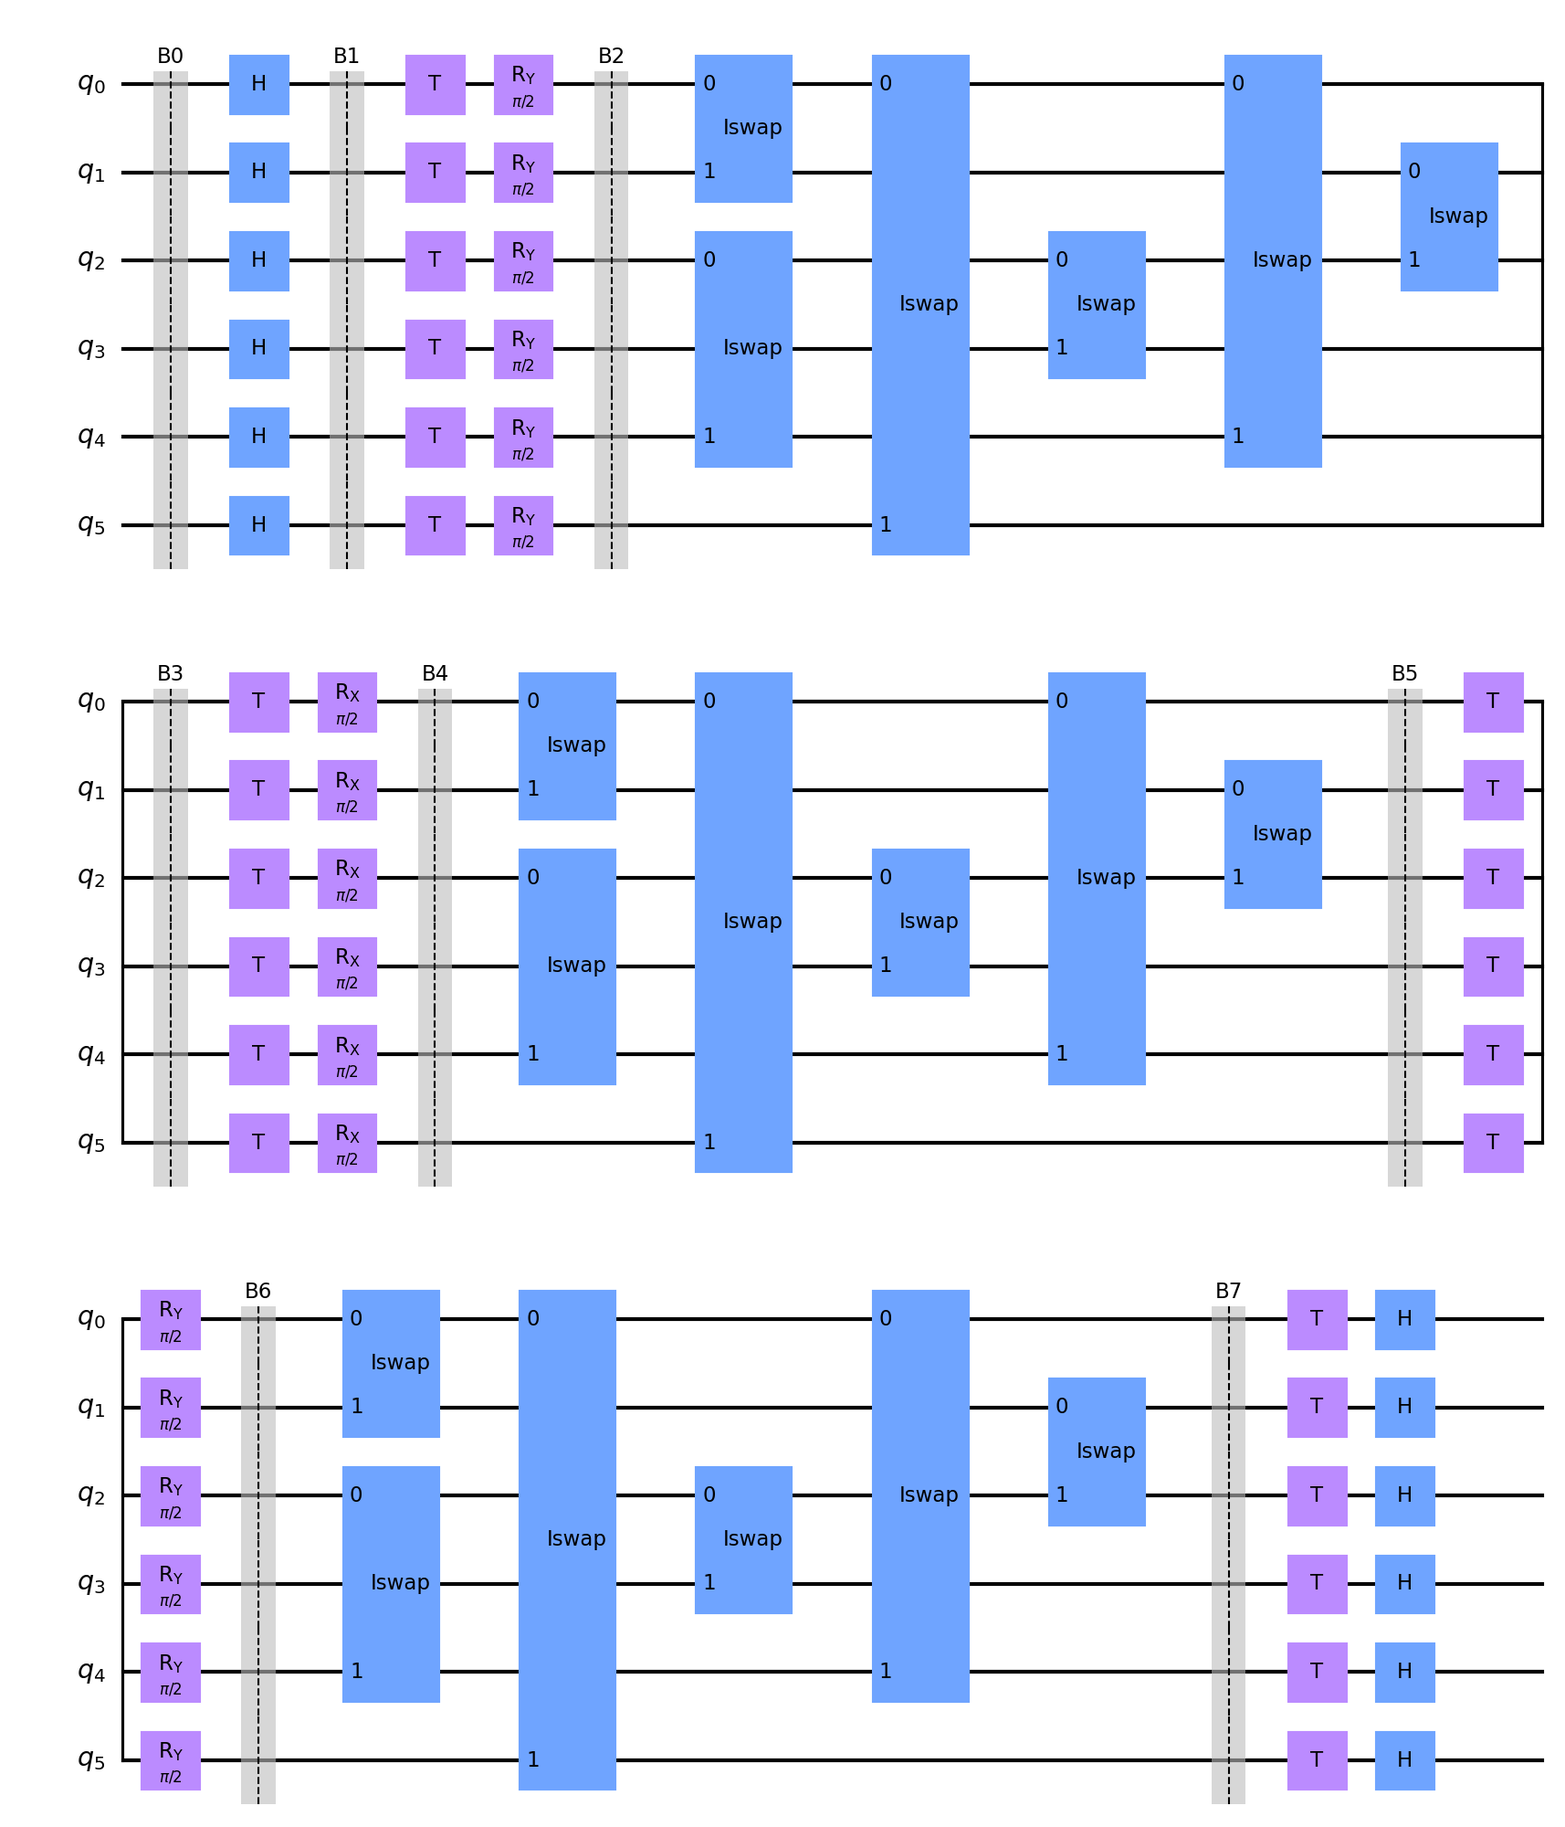
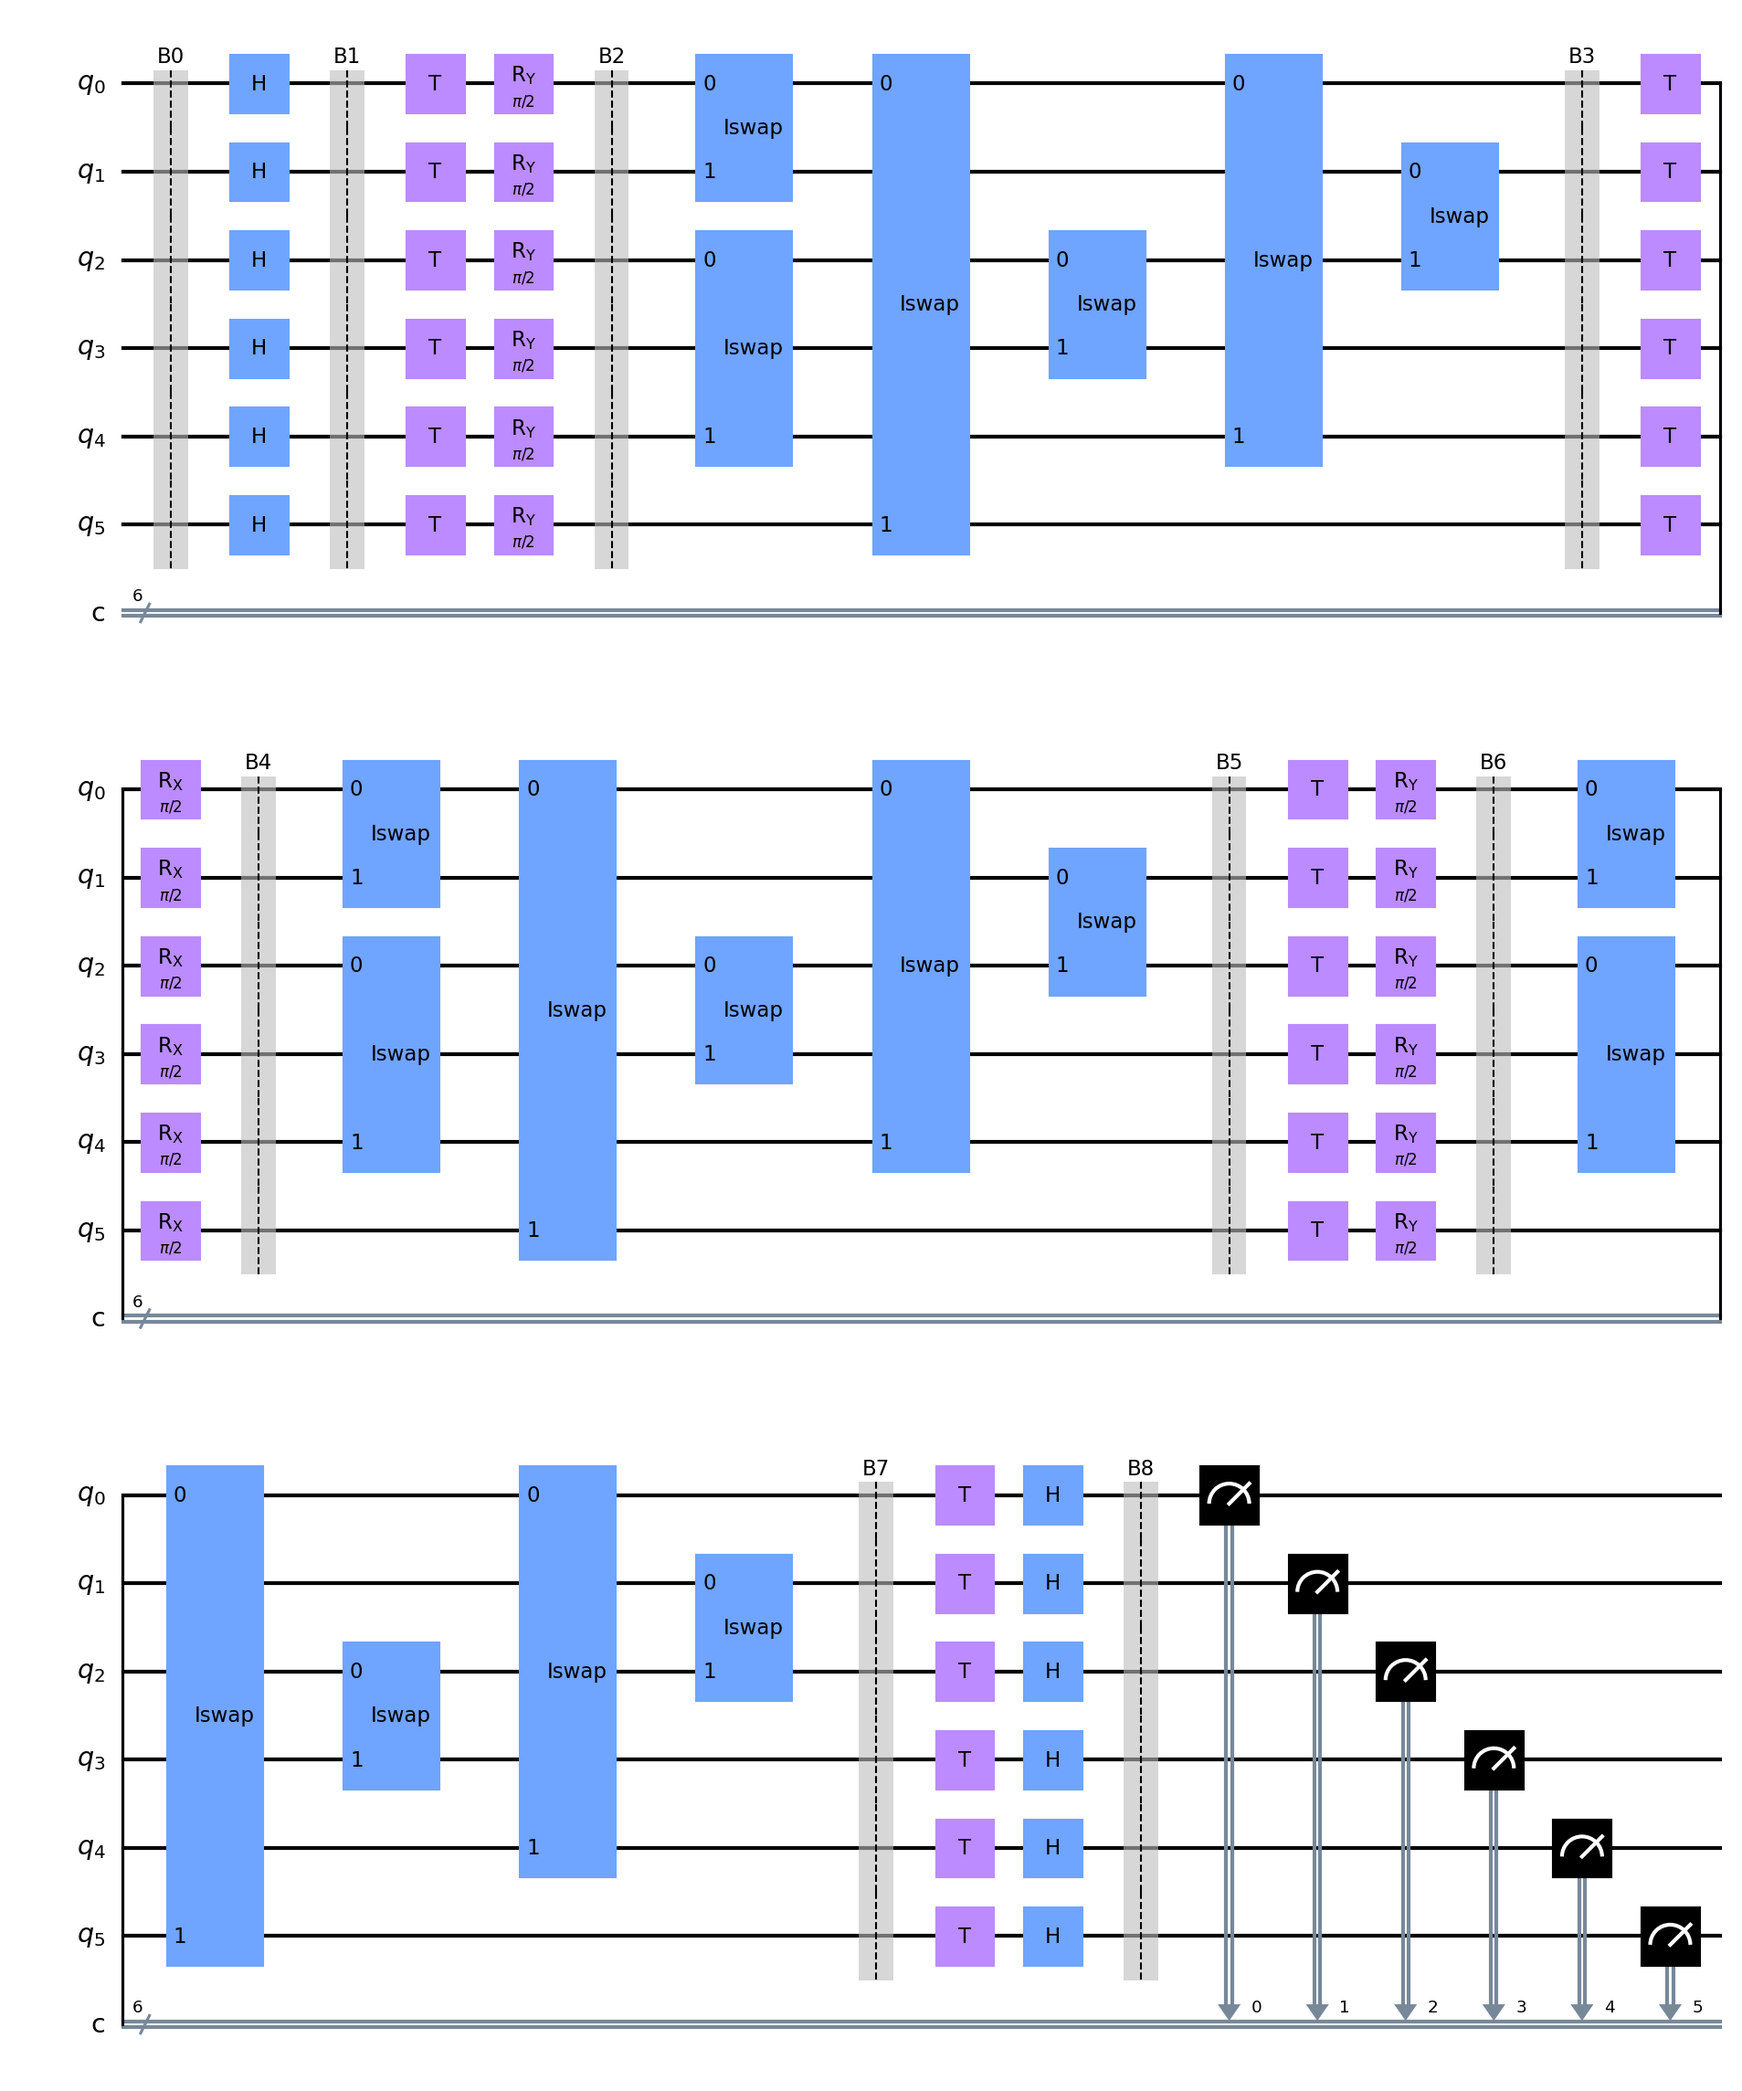
e

diff --git a/extras/generar_circuito.py b/extras/generar_circuito.py
@@ -8,7 +8,7 @@ import matplotlib.pyplot as plt
 n = 6
 theta = [0.5 * math.pi] * n
 
-qc = QuantumCircuit(n)
+qc = QuantumCircuit(n, n)
 
 entanglement_pairs = [(0, 1), (0, 5), (2, 4), (0, 4), (2, 3), (1, 2)]
 
@@ -57,9 +57,13 @@ for i in range(n):
     qc.t(i)
     qc.h(i)
 
+# B8 - Medición
+qc.barrier(label='B8')
+qc.measure(range(n), range(n))
+
 fig = qc.draw(
     output='mpl',
-    fold=16,
+    fold=18,
     style={'fontsize': 11},
     plot_barriers=True,
 )
